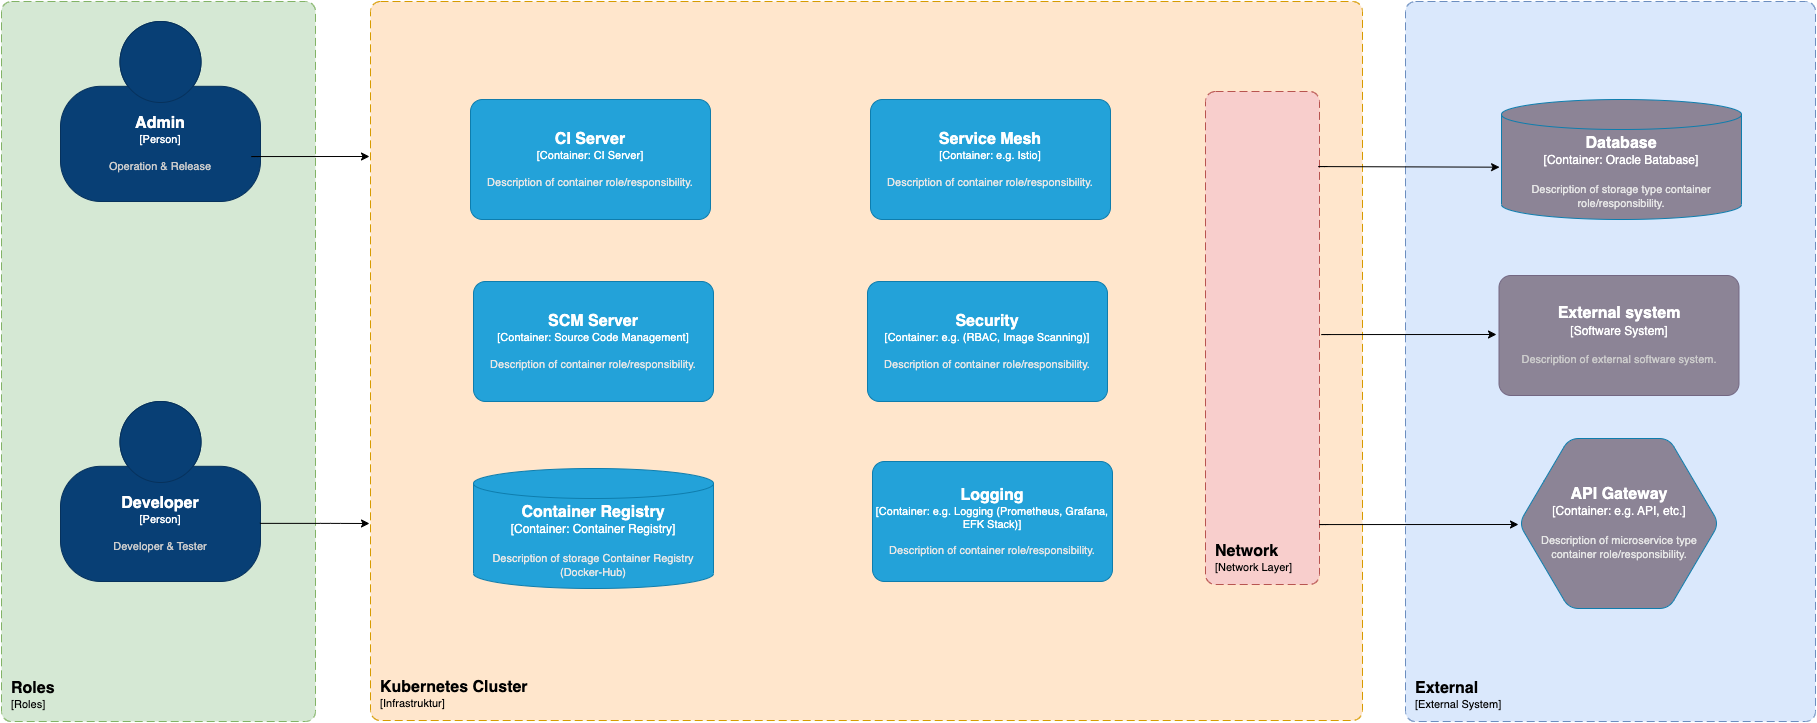
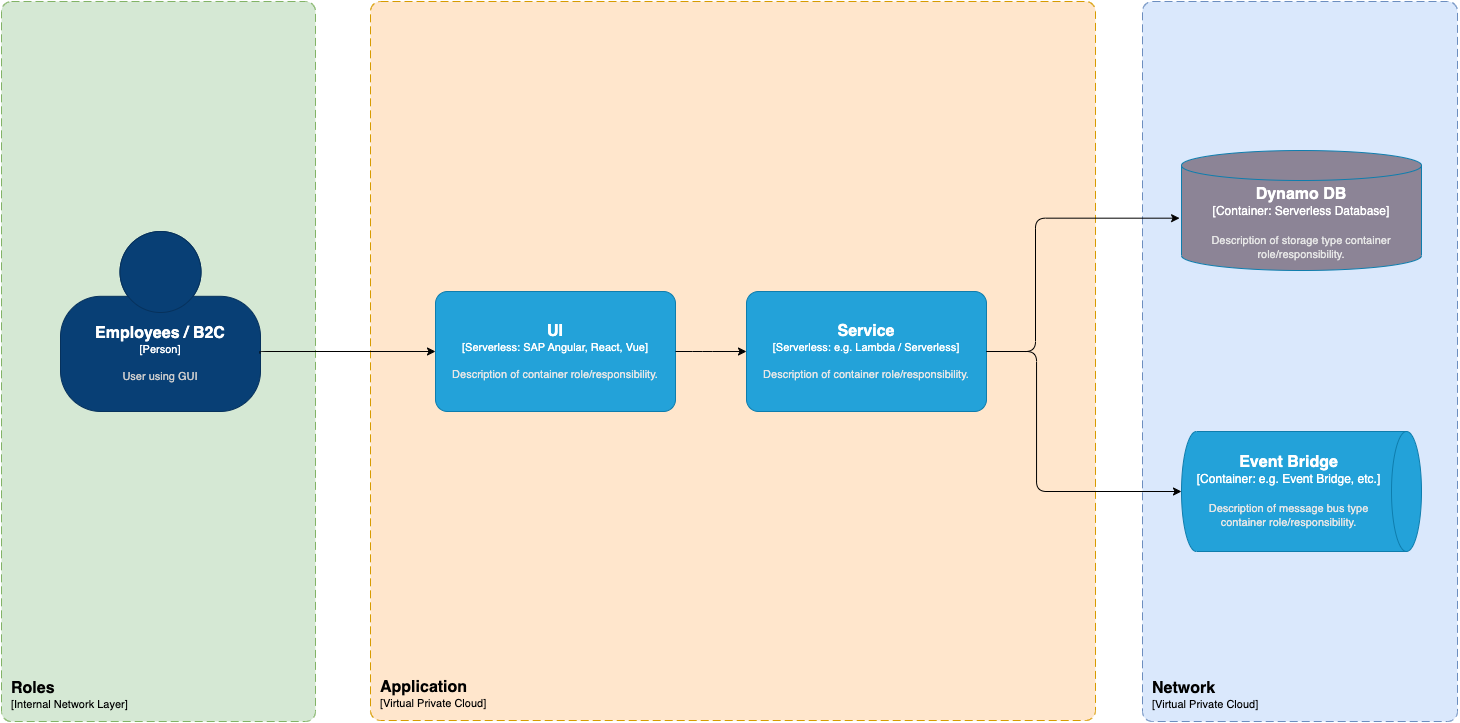
DX-2000 Update Docu #runtime view

diff --git a/README.md b/README.md
@@ -19,6 +19,8 @@
 
 ## 3. Context and Scope
 
+![Context-And-Scope-View](./docs/images/04-Context-And-Scope-View.png)
+
 ### 3.1 Business Context
 - **Customer**: Company requiring secure password exchange among employees.
 - **Stakeholders**: IT department, Security team, End-users.
@@ -41,19 +43,17 @@
 
 ## 5. Building Block View
 
+![Building-Block-View](./docs/images/05-Building-Block-View.png)
+
 ### 5.1 Whitebox Overall System
 - **System Context**: The system is deployed within a VPC, with restricted access through API Gateway.
 - **Key Components**:
-    - **EKS Cluster**: Manages the Docker containers.
-    - **Secrets Manager**: Stores encryption keys.
-    - **S3**: Stores encrypted data.
+    - **DynamoDB**: Stores encrypted data.
     - **Lambda**: Executes serverless functions.
     - **CloudWatch**: Monitors and logs activities.
 
 ### 5.2 Level 2: Container Diagram
-- **EKS**: Hosts application containers.
-- **Secrets Manager**: Provides secure access to secrets.
-- **S3**: Stores encrypted files.
+- **DynamoDB**: Stores encrypted files.
 - **API Gateway**: Controls access to the application.
 
 ## 6. Runtime View
@@ -61,16 +61,25 @@
 ![Runtime-View](./docs/images/06-Runtime-View.png)
 
 ### 6.1 Runtime Scenarios
-- **Password Storage**:
+* **Password Storage**:
     1. User submits password.
     2. API Gateway forwards request to the application.
-    3. Application encrypts password and stores it in S3.
-    4. Encryption keys are fetched from Secrets Manager.
-- **Password Retrieval**:
+    3. Application encrypts password and stores it in Database.
+* **Password Retrieval**:
     1. User requests a password.
     2. API Gateway forwards request to the application.
-    3. Application fetches and decrypts the password from S3.
-    4. Decryption keys are fetched from Secrets Manager.
+    3. Application fetches and decrypts the password from Database.
+* **Password Delete**
+    1. EventBridge publish a PasswordExpiredEvent.
+    2. Application listen to PasswordExpiredEvent and delete the password from database.
+* **Password Insert**
+  1. Database fire Insert event
+  2. Application listen to InsertEvent and check the storage event.
+  3. If storage event is **Time based** then schedule a PasswordExpiredJob via EventBridge
+* **Password Read**
+  1. Database fire Read event
+  2. Application listen to ReadEvent and check the storage event.
+  3. If storage event is **Once** then fire a PasswordExpiredEvent via EventBridge
 
 ## 8. Cross-cutting Concepts
 
@@ -97,9 +106,9 @@
 - **Data Protection**: Adheres to GDPR requirements.
 
 ## 9. Design Decisions
-- **Use AWS EKS**: For container orchestration.
-- **Use AWS Secrets Manager**: For secure management of encryption keys.
-- **Use S3**: For scalable and secure storage of encrypted data.
+- **Use AWS Lambdas**: For cloud computing.
+- **Use DynamoDB**: For scalable and secure storage of encrypted data.
+- **Use EventBridge**: For scheduling and fire events.
 
 ## 10. Quality Requirements
 
@@ -124,9 +133,7 @@
 |-------|----------------------------------------| 
 | AWS   | Amazon Web Services                    |
 | VPC   | Virtual Private Cloud                  |
-| EKS   | Elastic Kubernetes Service             |
 | IAM   | Identity and Access Management         |
-| S3    | Simple Storage Service                 |
 | GDPR  | Global Data Protection Regulatory      |
 
 

diff --git a/docs/06-Runtime-View.md b/docs/06-Runtime-View.md
@@ -3,13 +3,22 @@
 ![Runtime-View](./images/06-Runtime-View.png)
 
 ### 6.1 Runtime Scenarios
-- **Password Storage**:
+* **Password Storage**:
     1. User submits password.
     2. API Gateway forwards request to the application.
-    3. Application encrypts password and stores it in S3.
-    4. Encryption keys are fetched from Secrets Manager.
-- **Password Retrieval**:
+    3. Application encrypts password and stores it in Database.
+* **Password Retrieval**:
     1. User requests a password.
     2. API Gateway forwards request to the application.
-    3. Application fetches and decrypts the password from S3.
-    4. Decryption keys are fetched from Secrets Manager.
+    3. Application fetches and decrypts the password from Database.
+* **Password Delete**
+    1. EventBridge publish a PasswordExpiredEvent.
+    2. Application listen to PasswordExpiredEvent and delete the password from database.
+* **Password Insert**
+  1. Database fire Insert event
+  2. Application listen to InsertEvent and check the storage event.
+  3. If storage event is **Time based** then schedule a PasswordExpiredJob via EventBridge
+* **Password Read**
+  1. Database fire Read event
+  2. Application listen to ReadEvent and check the storage event.
+  3. If storage event is **Once** then fire a PasswordExpiredEvent via EventBridge

diff --git a/docs/05-Building-Block-View.md b/docs/05-Building-Block-View.md
@@ -1,16 +1,14 @@
 ## 5. Building Block View
 
+![Building-Block-View](./images/05-Building-Block-View.png)
+
 ### 5.1 Whitebox Overall System
 - **System Context**: The system is deployed within a VPC, with restricted access through API Gateway.
 - **Key Components**:
-    - **EKS Cluster**: Manages the Docker containers.
-    - **Secrets Manager**: Stores encryption keys.
-    - **S3**: Stores encrypted data.
+    - **DynamoDB**: Stores encrypted data.
     - **Lambda**: Executes serverless functions.
     - **CloudWatch**: Monitors and logs activities.
 
 ### 5.2 Level 2: Container Diagram
-- **EKS**: Hosts application containers.
-- **Secrets Manager**: Provides secure access to secrets.
-- **S3**: Stores encrypted files.
+- **DynamoDB**: Stores encrypted files.
 - **API Gateway**: Controls access to the application.

diff --git a/docs/09-Architectural-Decisions.md b/docs/09-Architectural-Decisions.md
@@ -1,4 +1,4 @@
 ## 9. Design Decisions
-- **Use AWS EKS**: For container orchestration.
-- **Use AWS Secrets Manager**: For secure management of encryption keys.
-- **Use S3**: For scalable and secure storage of encrypted data.
+- **Use AWS Lambdas**: For cloud computing.
+- **Use DynamoDB**: For scalable and secure storage of encrypted data.
+- **Use EventBridge**: For scheduling and fire events.

diff --git a/docs/12-Glossary.md b/docs/12-Glossary.md
@@ -4,8 +4,6 @@
 |-------|----------------------------------------| 
 | AWS   | Amazon Web Services                    |
 | VPC   | Virtual Private Cloud                  |
-| EKS   | Elastic Kubernetes Service             |
 | IAM   | Identity and Access Management         |
-| S3    | Simple Storage Service                 |
 | GDPR  | Global Data Protection Regulatory      |
 

diff --git a/docs/03-Context-and-Scope.md b/docs/03-Context-and-Scope.md
@@ -1,5 +1,7 @@
 ## 3. Context and Scope
 
+![Context-And-Scope-View](./images/04-Context-And-Scope-View.png)
+
 ### 3.1 Business Context
 - **Customer**: Company requiring secure password exchange among employees.
 - **Stakeholders**: IT department, Security team, End-users.
